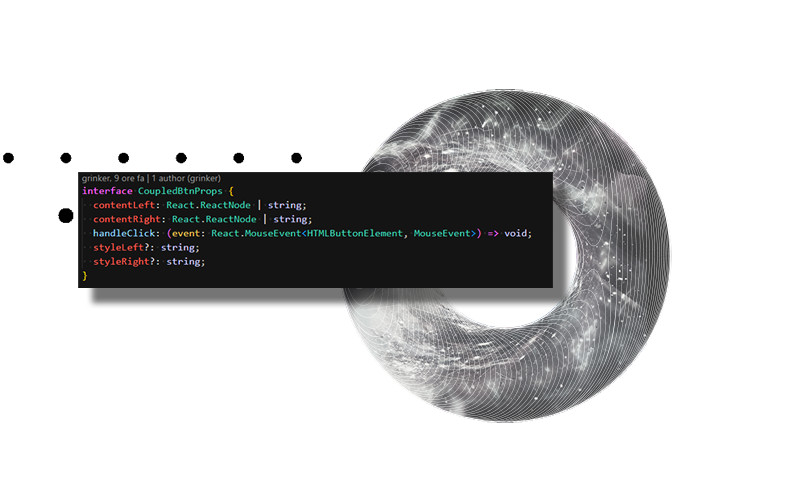
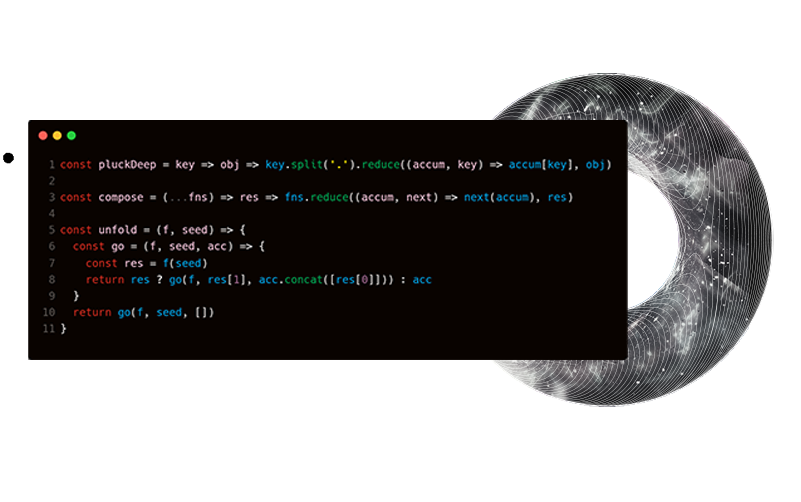
fix : pic and card in landing page

diff --git a/src/component/AboutUs.tsx b/src/component/AboutUs.tsx
@@ -1,4 +1,4 @@
-import member from "../assets/member.png";
+
 import role from "../assets/teamRole.png";
 import GabrieleBarberio from "../assets/gabriele-transparent.png";
 import DavideSimone from "../assets/davide-transparent.png";
@@ -59,7 +59,7 @@ function AboutUs() {
             </span>
             <div className="mt-16 mb-4">
               <span className="text-2xl font-bold text-[#FFFFFF80]">
-                @GabrieleBarberio
+                @DavideSimone
               </span>
             </div>
           </div>
@@ -73,17 +73,15 @@ function AboutUs() {
               />
             </div>
             <h2 className="text-3xl font-bold my-8 text-[#D9D9D9]">
-              Jonna Geronico
+              Jonna Geronimo
             </h2>
             <div>{/* role banner */}</div>
             <span className="text-xl font-bold my-8 text-[#D9D9D9]">
-              Studente di Develhope appassionato
-              <br />
-              di arte, storia, cucina e innovazione.
+            Mediatrice culturale e  studentessa <br />a Develhope,  con un debole per l'arte,<br /> le digital humanities,  il game design <br/> e il caffè che scorre nelle vene.
             </span>
             <div className="mt-16 mb-4">
               <span className="text-2xl font-bold text-[#FFFFFF80]">
-                @GabrieleBarberio
+                @JonnaGeronimo
               </span>
             </div>
           </div>

diff --git a/src/component/SecondSection.tsx b/src/component/SecondSection.tsx
@@ -1,5 +1,6 @@
 import bannerspec from "../assets/banner firsdt imeo spec.png";
 import line from "../assets/line.png";
+import chat from "../assets/Senza_titolo-1.png";
 
 export const SecondSection = () => {
   return (
@@ -20,7 +21,7 @@ export const SecondSection = () => {
         </span>
       </div>
       <div className="flex-1">
-        <img className="max-w-full h-auto" src={bannerspec} />
+        <img className="max-w-full h-auto" src={chat} />
       </div>
     </div>
   );

diff --git a/src/component/ThirdSection.tsx b/src/component/ThirdSection.tsx
@@ -1,5 +1,6 @@
 import bannereditor from "../assets/bannereditor.png";
 import line from "../assets/line.png";
+import codeBanner from "../assets/code-edit-uno.png"
 
 export const ThirdSection = () => {
   return (

diff --git a/src/component/SidebarButton.tsx b/src/component/SidebarButton.tsx
@@ -1,5 +1,4 @@
 
-
 interface SidebarButtonProps {
     img: string;
     user_name: string;
